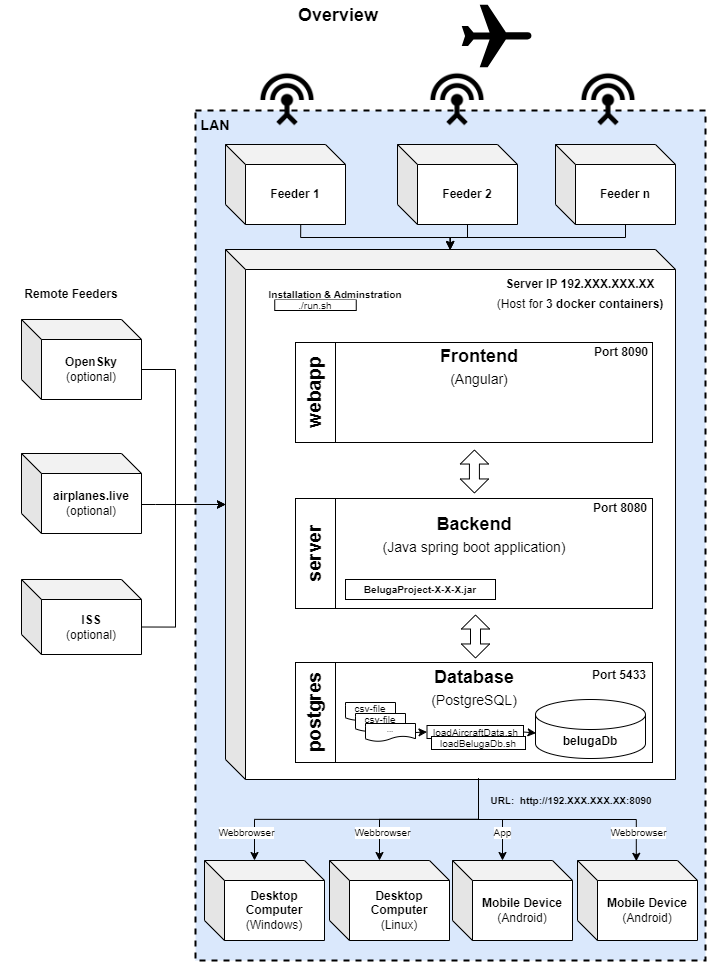
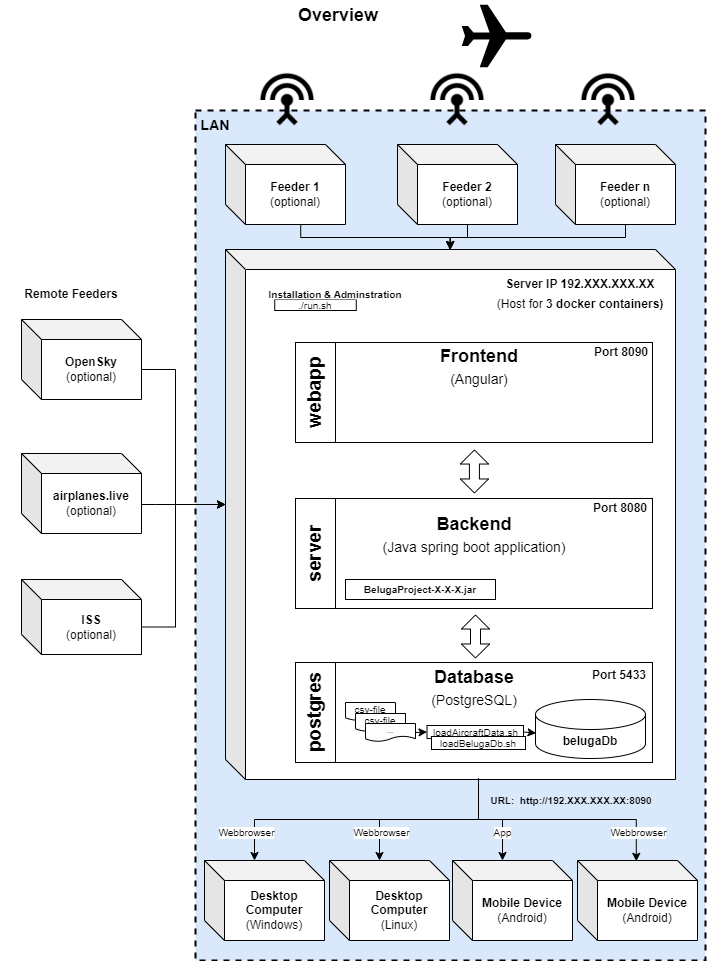
Update manuals and drawings

diff --git a/doc/INSTALL.md b/doc/INSTALL.md
@@ -125,7 +125,7 @@ If you don't have a ADS-B receiver you can use the [Opensky-Network](https://ope
 
    If you get error messages please take a look into [TROUBLESHOOTING.md](./TROUBLESHOOTING.md).  
 
-5. When Beluga Project is installed and is running go to `<system-prod-ip>:8090` in your browser. On first run after installation it may take up to about 3 minutes until all aircrafts are visible. If you just want to test the project, enable the Opensky-Network functionality in the settings menu (an Opensky-Network account is needed). 
+5. When Beluga Project is installed and is running go to `<system-prod-ip>:8090` in your browser. On first run after installation it may take up to about 3 minutes until all aircrafts are visible. If you just want to test the project, enable the [OpenSky-Network](https://opensky-network.org/) functionality in the settings menu (an Opensky-Network account is needed) or enable [Airplanes.live](https://airplanes.live/) functionality instead. 
 
 6. Operation and Maintenance
 
